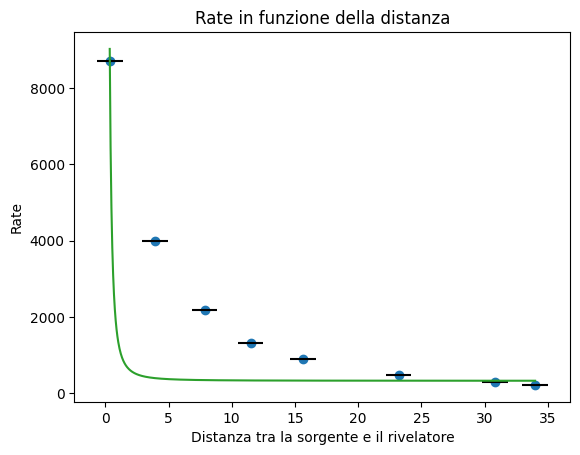
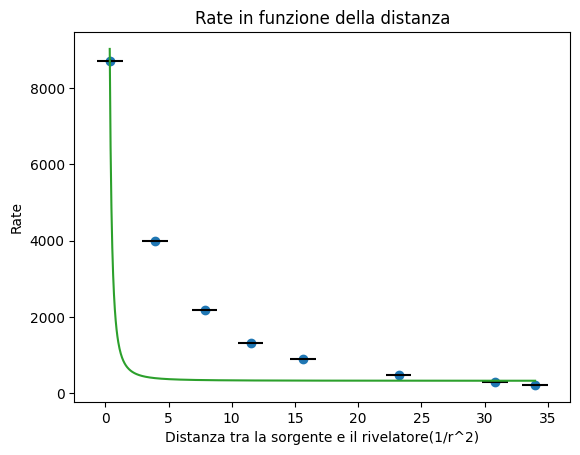
Aggiunto errore indotto sul rate in fne della distanza

Changed region(s): [[0.2793, 0.9538, 0.8379, 0.9846]]

diff --git a/Python/Analisi dati a posteriori.py b/Python/Analisi dati a posteriori.py
@@ -26,6 +26,7 @@ fig4, ax4 = plt.subplots()
 fig5, ax5 = plt.subplots()
 fig6, ax6 = plt.subplots()
 fig7, ax7 = plt.subplots()
+fig8, ax8 = plt.subplots()
 
 def retta(pars, x):  # Define a line. Pars is a dict of parameters and x an array of data
     vals = pars.valuesdict()
@@ -346,6 +347,16 @@ for l in out.params:
     md.write(f"${l} = {out.params[l].value:.5f} \pm {out.params[l].stderr:.5f} $ \n")
 md.insert_code(f"{fit_report(out)} \n")
 
+uy2, y2 = [], []
+for x, y in zip(dati.x, dati.y):
+    uy2.append(np.sqrt(y.std_dev**2 + (x.std_dev * derivata(modelloG_giusto_c, out.params, x.n))**2))
+    y2.append(y.nominal_value)
+    print(derivata(modelloG_giusto_c, out.params, x.n))
+print("FIT FINALE")
+print(dati.y, y2, uy2)
+dati.y = unp.uarray(y2, uy2)
+out = fit(modelloG_giusto, data2D = dati)
+plotta(ax8, data2D = dati, FunzioneModello = modelloG_giusto, parametri = out.params)
 
 ax1.set_xlabel('Canale')
 ax1.set_ylabel('Tensione [V]')
@@ -363,26 +374,24 @@ ax4.set_xlabel('Energia [MeV]')
 ax4.set_ylabel('Range equivalente [g/cm^2]')
 ax4.title.set_text("Fit quadratico sui dati tabulati del Mylar")
 
-ax5.set_xlabel('Distanza tra la sorgente e il rivelatore')
+ax5.set_xlabel('Distanza tra la sorgente e il rivelatore(1/r^2)')
 ax5.set_ylabel('Rate')
 ax5.title.set_text("Rate in funzione della distanza")
 
-ax6.set_xlabel('Distanza tra la sorgente e il rivelatore')
+ax6.set_xlabel('Distanza tra la sorgente e il rivelatore(arcsin)')
 ax6.set_ylabel('Rate')
 ax6.title.set_text("Rate in funzione della distanza")
 
-ax7.set_xlabel('Distanza tra la sorgente e il rivelatore')
+ax7.set_xlabel('Distanza tra la sorgente e il rivelatore(arcsin traslato)')
 ax7.set_ylabel('Rate')
 ax7.title.set_text("Rate in funzione della distanza")
 
-
-
-
-
-
+ax8.set_xlabel('Distanza tra la sorgente e il rivelatore(arcsin con errori)')
+ax8.set_ylabel('Rate')
+ax8.title.set_text("Rate in funzione della distanza")
 
 plt.show()
-for i, fig in enumerate([fig1, fig2, fig3, fig4, fig5, fig6, fig7]):
+for i, fig in enumerate([fig1, fig2, fig3, fig4, fig5, fig6, fig7, fig8]):
     fig.savefig(f"../Figure/ax{i+1}", bbox_inches="tight")
 
 md.create_md_file()

diff --git a/Python/fupad.py b/Python/fupad.py
@@ -108,7 +108,7 @@ def derivata(Modello, parametri, x0):
     Il secondo input è una struttura di lmfit che viene restituita dalla funzione fit(). Quindi questa funzione può essere utilizzata
     solo dopo il primo fit per farne un secondo utilizzando l'errore indotto
     """
-    h = 1e-15
+    h = 1e-10
 
     # Restituisce un numero, la derivata del modello a parametri fissati
     return (Modello.func(parametri, x0+h) - Modello.func(parametri, x0-h)) / (2*h)
